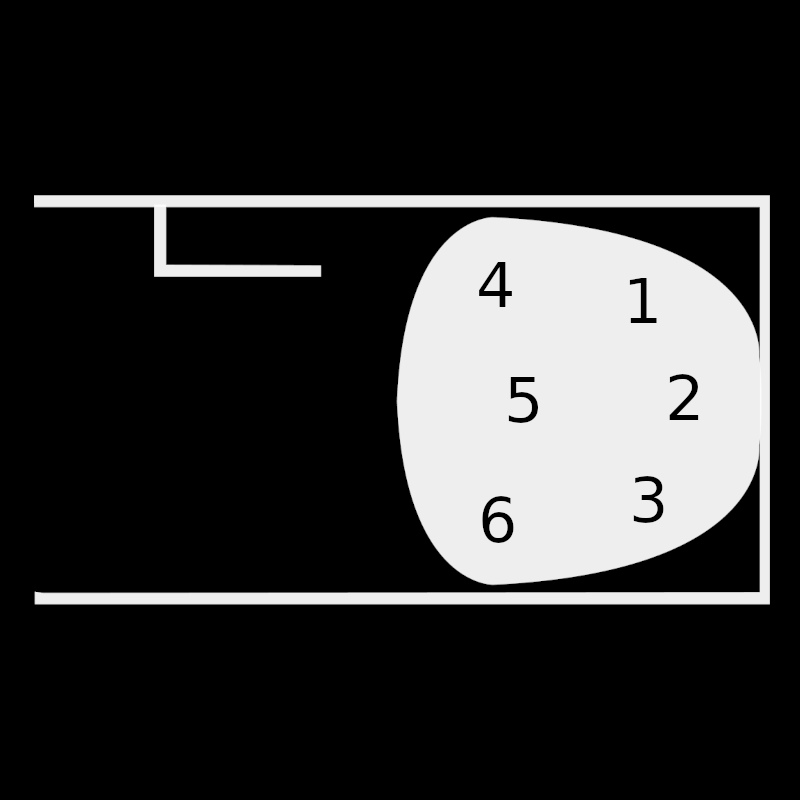
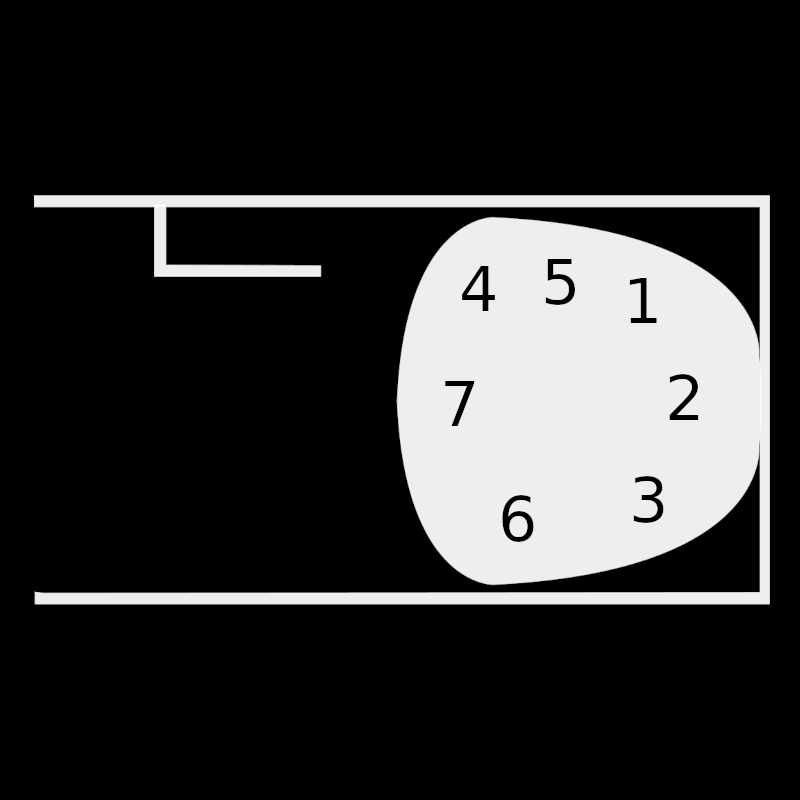
updated amout of works in observatorio

diff --git a/src/components/AdminGaleryMap/index.tsx b/src/components/AdminGaleryMap/index.tsx
@@ -16,7 +16,7 @@ const imageList = [
     {name: 'Contos e Novelas', img: ContosENovelas, links: ['YK7F4xAAACUAX0KH','YK7NYBAAACQAX2On','YK7NexAAACUAX2Qp','YK7NlxAAACMAX2Sz']}, 
     {name: 'Ensaios', img:Ensaios, links: ['YK7cOxAAACMAX6YT','YK7cTBAAACQAX6Zi','YK7cYBAAACUAX6bF','YK7ccRAAACMAX6cU','YK7cgxAAACQAX6do','YK7ckhAAACYAX6ez']}, 
     {name: 'Poesias', img: Poesias, links: ['YKgtiBEAACIAc1rT','YK6ssxAAACYAXtDp','YK66nRAAACMAXw_m','YK66xBAAACYAXxCg','YK663hAAACMAXxEX','YK66-BAAACMAXxGN','YK67JhAAACMAXxJh','YK67DhAAACQAXxHz']},
-    {name: 'Observatório', img: Observatorio, links: ['YWoVlhEAACQAky7U','YWoV4REAACUAkzAo','YWoV_hEAACMAkzCs','YWoWIxEAACQAkzFQ','YWoWQhEAACYAkzHi','YWoWXREAACYAkzJa']}
+    {name: 'Observatório', img: Observatorio, links: ['YWoVlhEAACQAky7U','YWoV4REAACUAkzAo','YWoV_hEAACMAkzCs','YWoWIxEAACQAkzFQ','YWoWQhEAACYAkzHi','YWoWXREAACYAkzJa', 'YYWmZxAAACMAhbCx']}
 ]
 
 const AdminGaleryMap: React.FC = () => {
